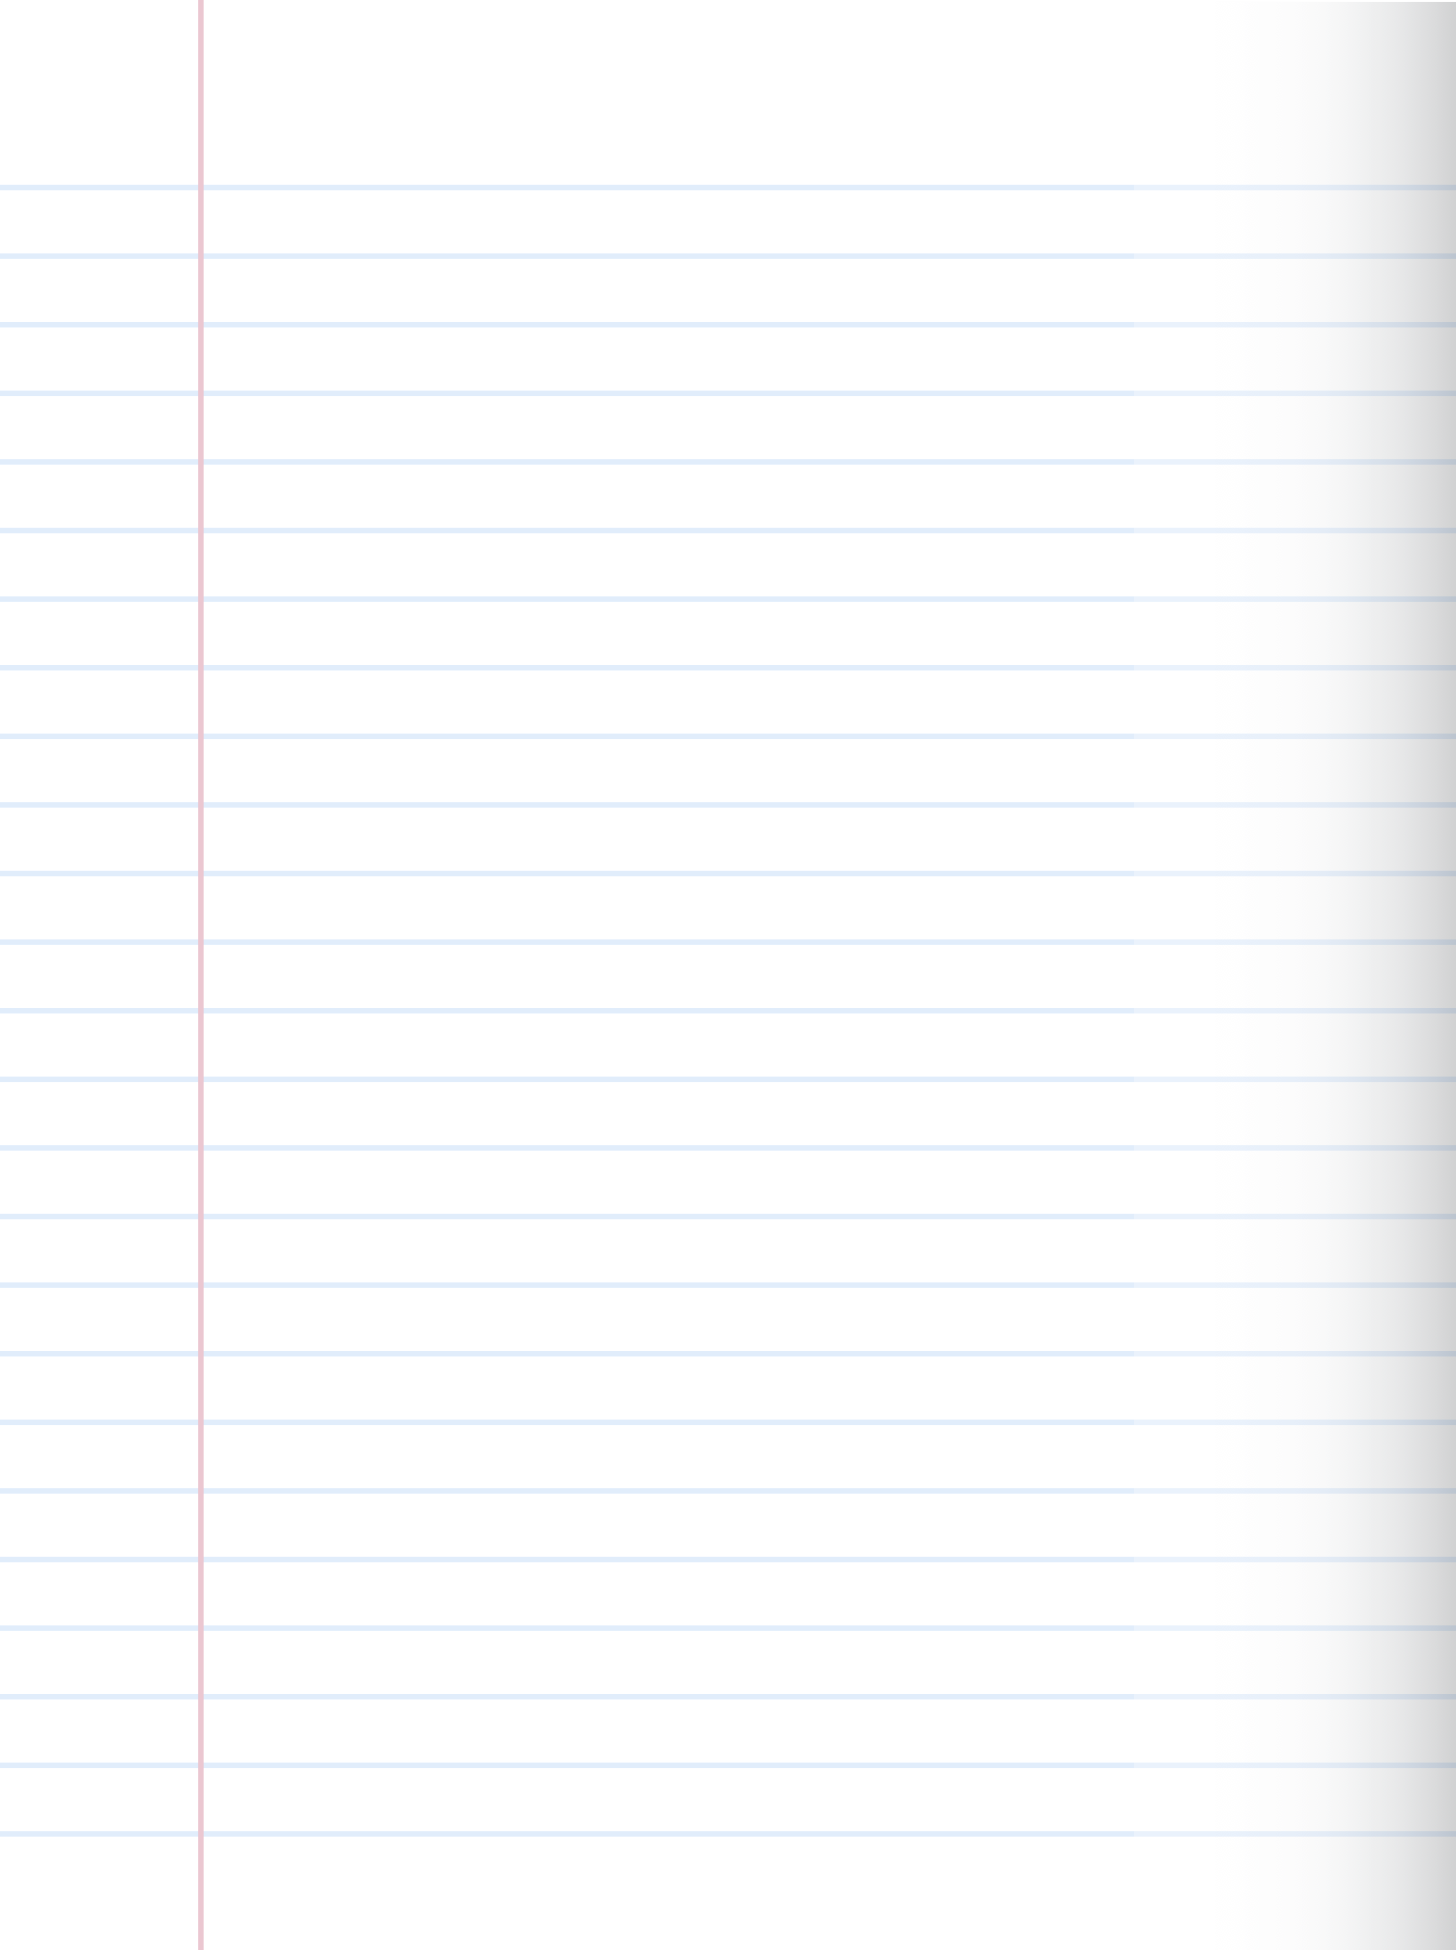
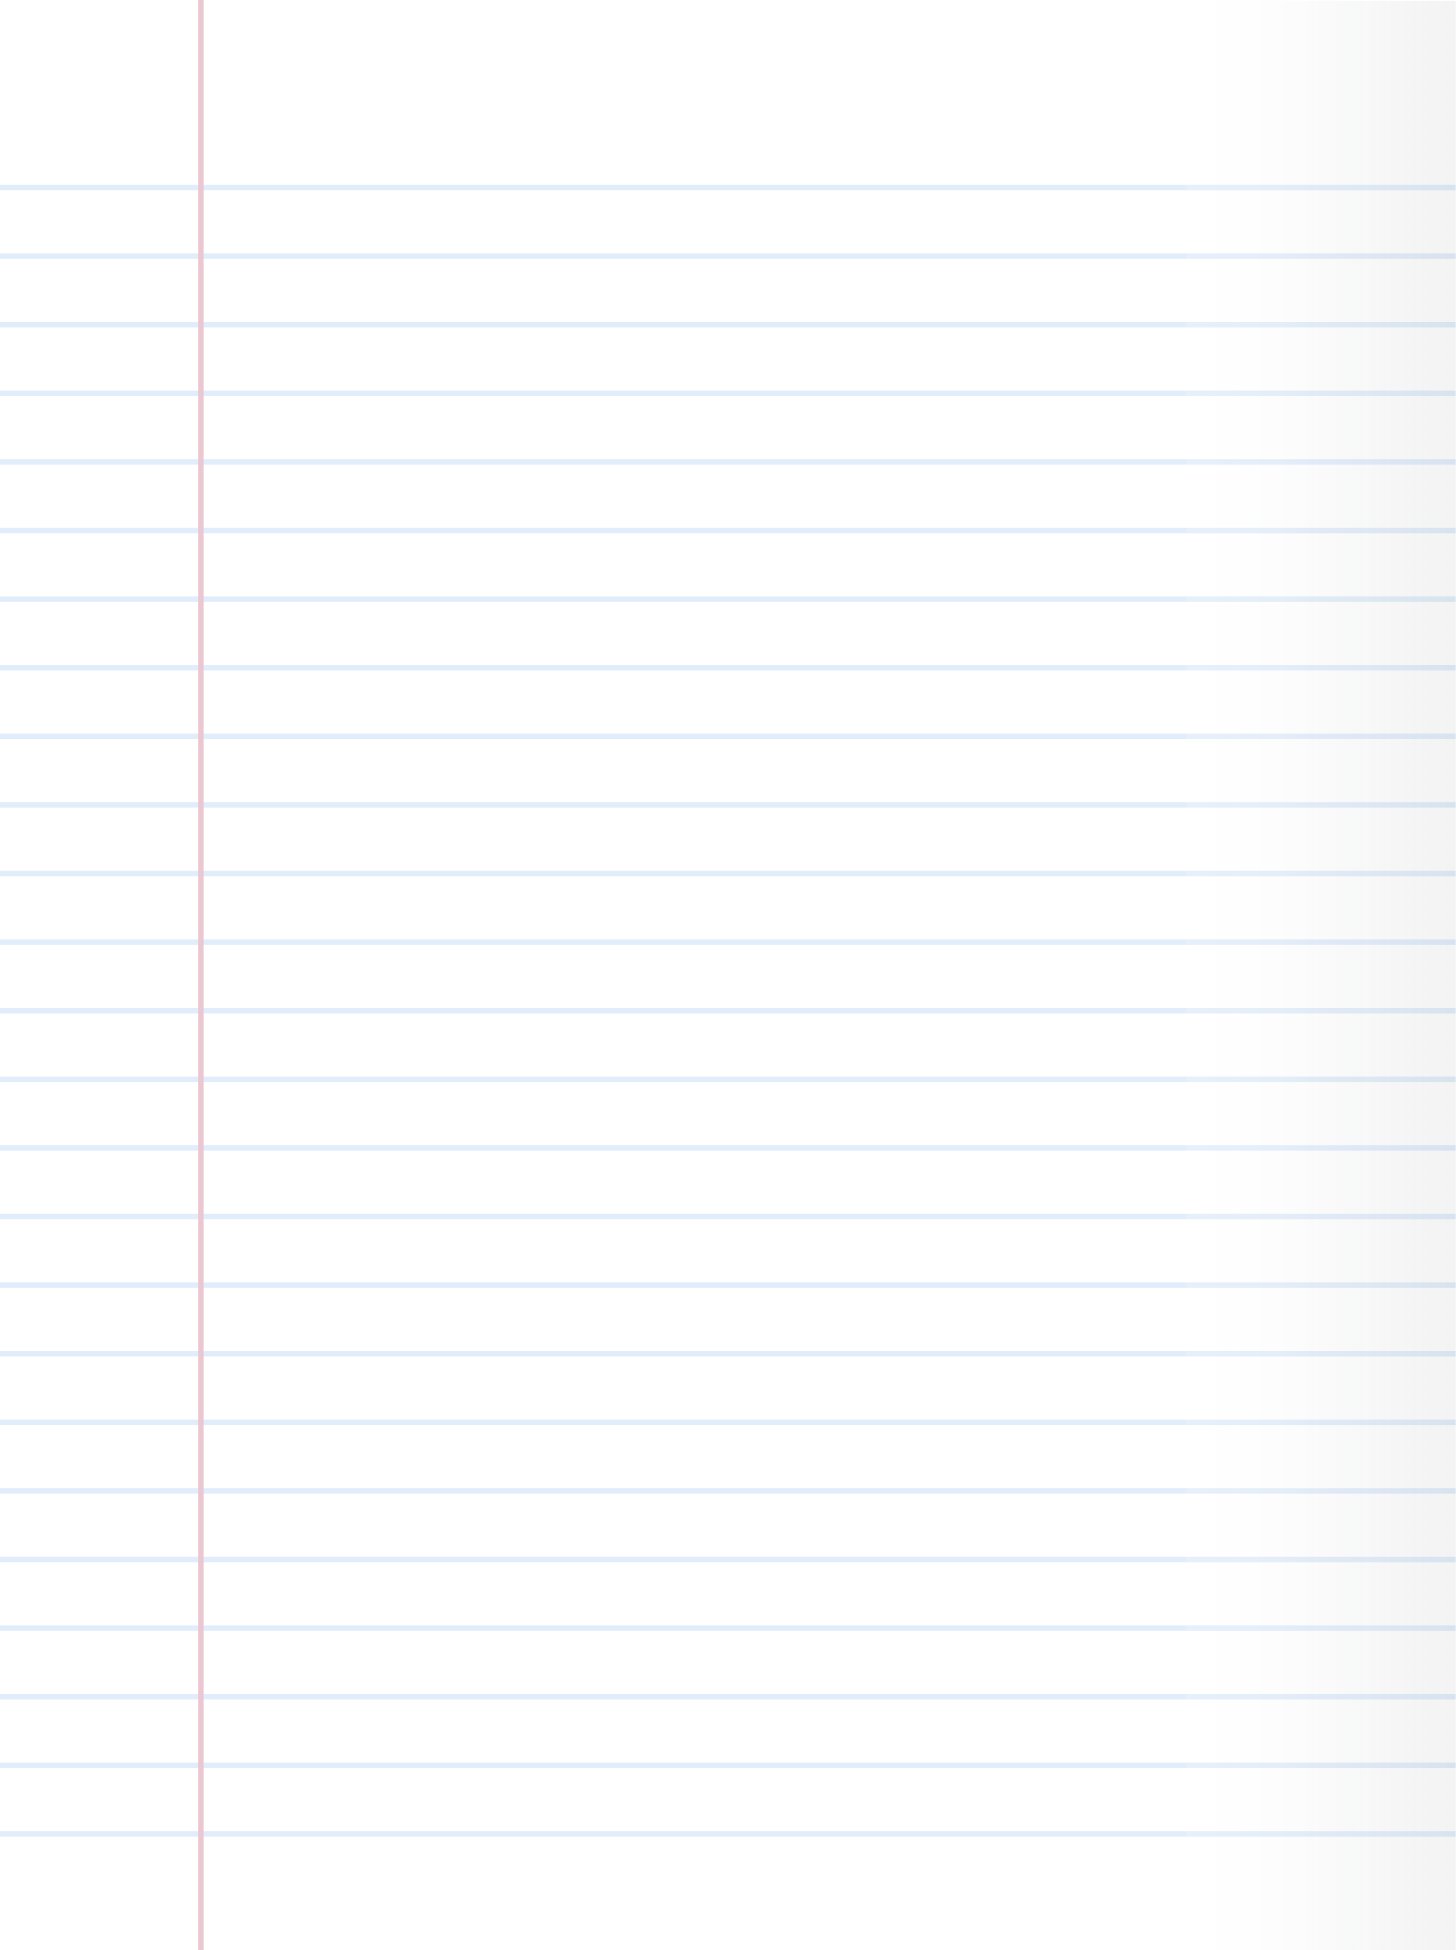
Better Gradient and More Pages from Lena

Changed region(s): [[0.9581, 0.0, 1.0, 1.0]]

diff --git a/responsive.html b/responsive.html
@@ -16,7 +16,7 @@
 	<div class="t">
 	    <div class="tc rel">
 	        <div class="book" id="book">
-	            <div class="hard"><img src="1.png"></div> 
+	            <div class="hard"><img src="front.jpg"></div> 
 			    <div class="hard"><img src="-1.jpg"></div>
 			    <div class="page even"><img class="even" src="2.png"></div>
 			    <div class="page odd"><img class="odd" src="3.png"></div>
@@ -31,11 +31,21 @@
 			    <div class="page"><img src="12.png"></div>
 			    <div class="page"><img src="13.png"></div>   
 			    <div class="page"><img src="14.png"></div>
-			    <div class="page"><img src="13.png"></div>
+			    <div class="page"><img src="15.png"></div>
+			    <div class="page"><img src="16.png"></div>
+			    <div class="page"><img src="17.png"></div>
+			    <div class="page"><img src="18.png"></div>
+			    <div class="page"><img src="19.png"></div>
+			    <div class="page"><img src="20.png"></div>
+			    <div class="page"><img src="21.png"></div>
+			    <div class="page"><img src="22.png"></div>
+			    <div class="page"><img src="23.png"></div>
+			    <div class="page"><img src="24.png"></div>
+			    <div class="page"><img src="23.png"></div>
 			    <div class="hard last">
 			    	<div class="lastText"><br><br><br><br><br><br><br><br><br><br><br><br>Wow! Already on the last page of the preview? I hope you've enjoyed what you read so far. If you'd like to be notified when the full book becomes available for purchase, <a href="mailto:theneuroticnotebook@gmail.com">please email me here</a>.<p>Bisous,<br>Lena<p></div>
 			    </div>
-			    <div class="hard"><img src="back.png"></div>
+			    <div class="hard"><img src="back.jpg"></div>
 	        </div>
 	    </div>
 	</div>

diff --git a/responsive.css b/responsive.css
@@ -20,7 +20,7 @@ body.hide-overflow {
 }
 
 .last {
-    background-image: url('last.png');
+    background-image: url('endnote.png');
     background-size: 100%;
 }
 
